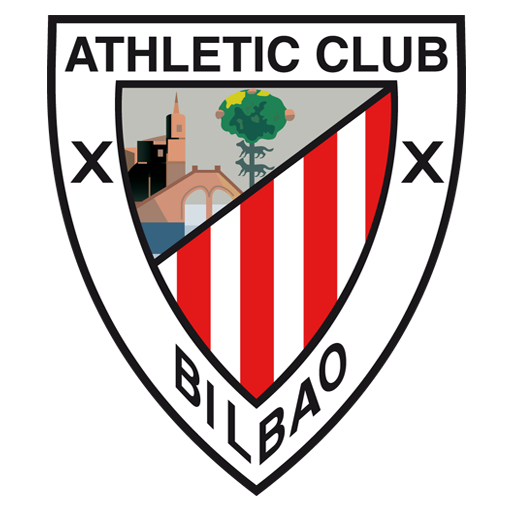
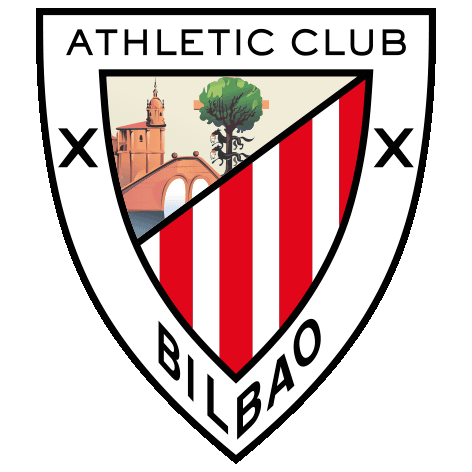
pantalla inicio style

Changed region(s): [[0.0593, 0.0, 0.9492, 0.9788]]

diff --git a/public/stylesheets/style.css b/public/stylesheets/style.css
@@ -15,7 +15,7 @@ a {
 }
 
 .logo-splash {
-  background-image: url('../images/splash.png');
+  background-image: url('../images/splash04.png');
   width: 100%;
   height: 100%;
   background-position: center;
